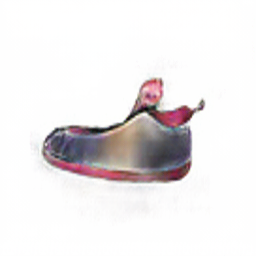
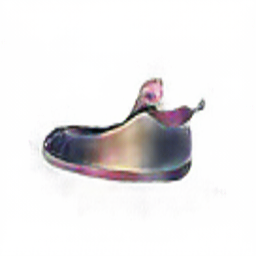
[Edit] khe - Add image-background changer & Fix bugs

Changed region(s): [[0.1562, 0.3125, 0.75, 0.7188], [0.7812, 0.4062, 0.8125, 0.4375], [0.4688, 0.4688, 0.5, 0.5]]

diff --git a/server/templates/index.html b/server/templates/index.html
@@ -43,7 +43,7 @@
 		var canvas = document.getElementById('mycanvas');
 		var context = canvas.getContext('2d');
 		context.fillStyle = "#FFFFFF"
-		context.fillRect(0,0,canvs.width,canvas.height)
+		context.fillRect(0,0,canvas.width,canvas.height)
 		var convertDrawing = document.getElementById('convertedDrawing')
 
 		document.getElementById('convertDraw').addEventListener('click', function() {

diff --git a/server/app.py b/server/app.py
@@ -1,5 +1,6 @@
 from flask import Flask, render_template, request, redirect, url_for, jsonify, send_file
 from PIL import Image
+from io import BytesIO
 import os
 import io
 import random
@@ -15,7 +16,7 @@ filename = ''.join(random.choices(string.ascii_lowercase + string.digits, k=8)) 
 
 @app.route('/')
 def index():
-    return render_template('sub.html')
+    return render_template('index.html')
 
 # upload for drawing image
 @app.route('/upload2', methods=['POST'])
@@ -41,16 +42,28 @@ def upload2():
     try:
         # 이미지 데이터 디코딩
         image_data = base64.b64decode(encoded_image)
+        image = Image.open(BytesIO(image_data))
+        pixels = image.load()
+        width, height = image.size
+
+        #배경을 하얀색으로 변환
+        for x in range(width):
+            for y in range(height):
+                r, g, b, a = pixels[x, y]
+                if a == 0:
+                    pixels[x, y] = (255, 255, 255, 255)
+        
+        output_image = BytesIO()
+        image.save(output_image, format='PNG')
+        image_data_r = output_image.getvalue()
 
         # 이미지 파일로 저장
-        
         drawing_fake = drawing.split('.')[0]+'_fake.png'
         drawing_path = 'server/static/img/drawing_img/'+drawing
         
         
-        
         with open(drawing_path, 'wb') as file:
-            file.write(image_data)
+            file.write(image_data_r)
         shutil.copy('server/static/img/drawing_img/' + drawing, 'pytorch-CycleGAN-and-pix2pix-master/datasets/elevenTest/test')
         print('이미지 저장 성공')
 
@@ -71,6 +84,7 @@ def upload2():
 # 이거 왜 안되는지 모르겠네여
 @app.route('/get_drawing', methods=['GET'])
 def get_drawing():
+    print("event")
     drawing_file_path = 'static/img/drawing_result/'+drawing.split('.')[0]+'_fake.png'
     return send_file(drawing_file_path, mimetype='image/jpeg')
 
@@ -109,6 +123,7 @@ def save_image(image_data, filename):
     
     # 이미지 파일로 저장
     file_path = 'server/static/img/upload_img/'+filename
+    print(file_path)
     with open(file_path, 'wb') as f:
         f.write(image_data)
     shutil.copy('server/static/img/upload_img/' + filename, 'pytorch-CycleGAN-and-pix2pix-master/datasets/elevenTest/test')
